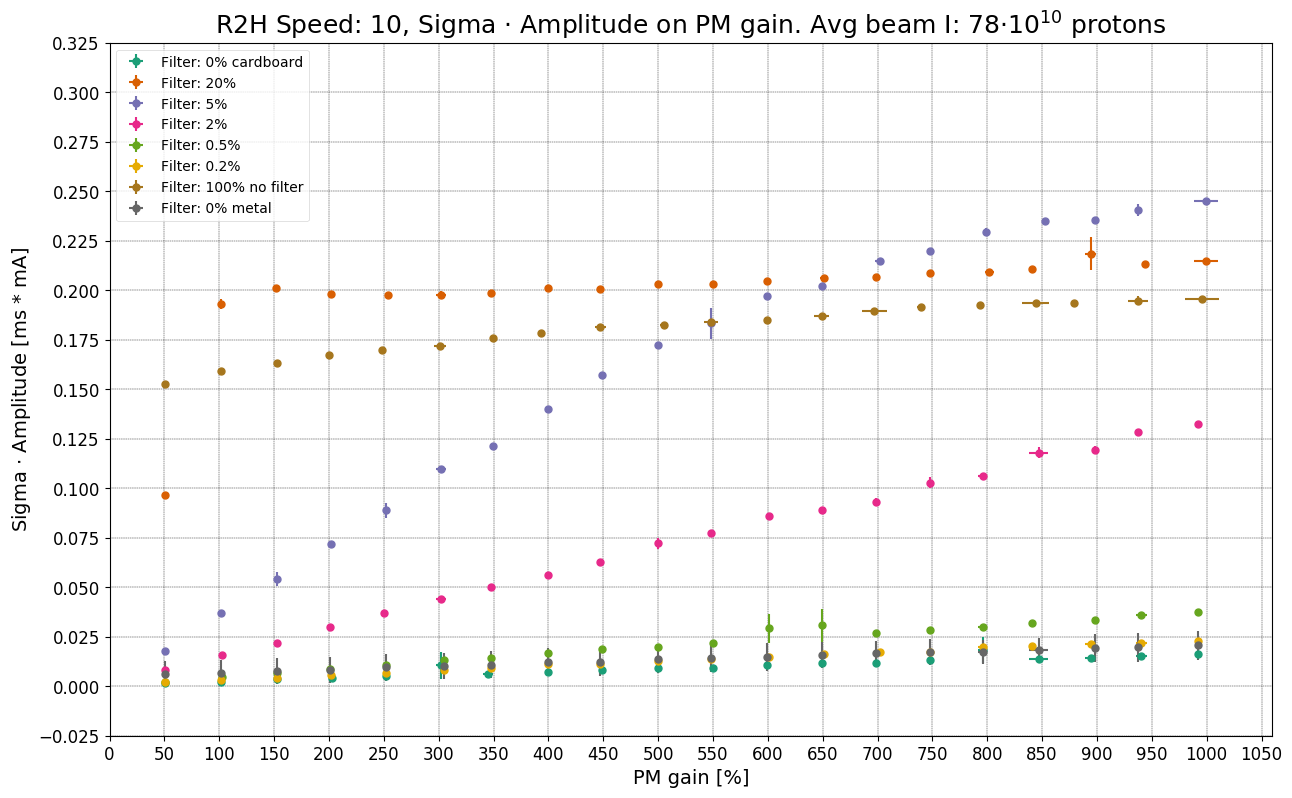
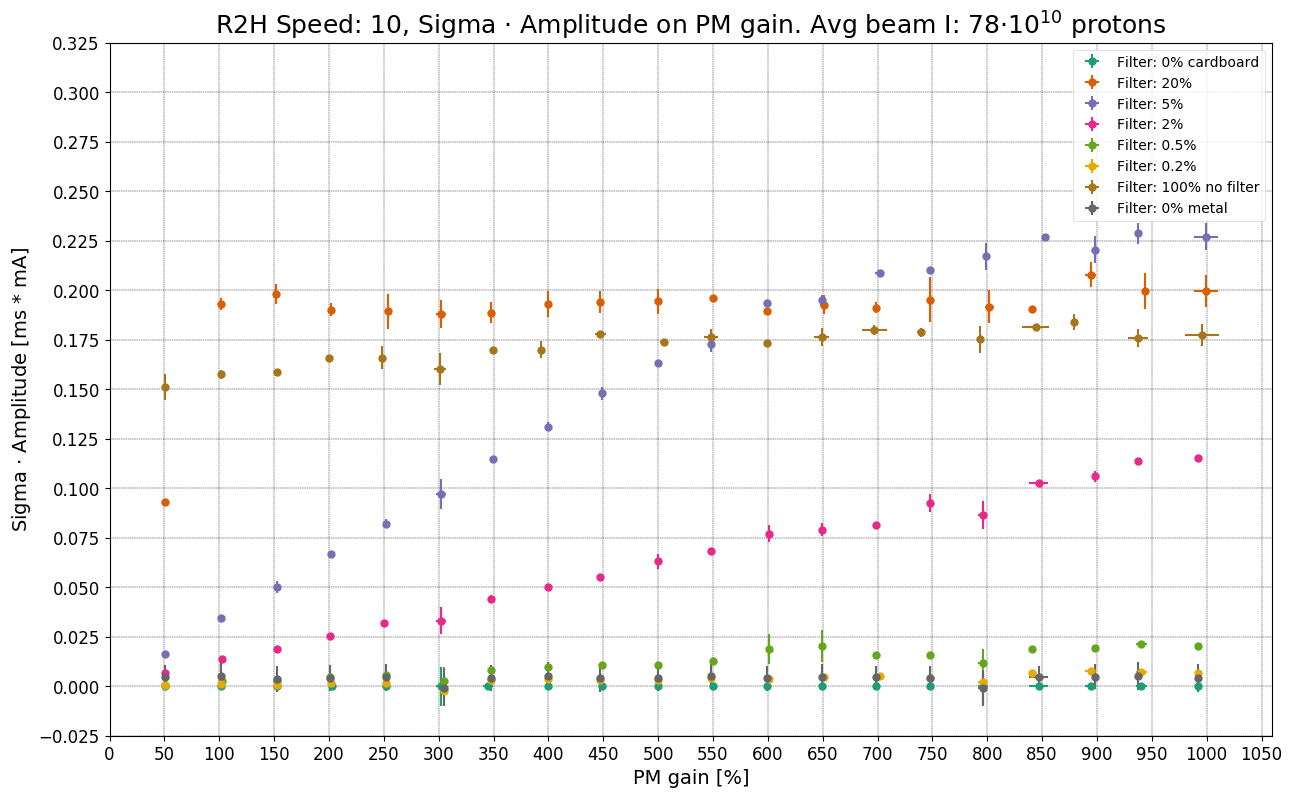
Subtracting cardborad from all data, normilising sigma*amplitude to intensity, created table with fit parameters.

diff --git a/Parameter_values.html b/Parameter_values.html
@@ -1,0 +1,26 @@
+ <html><head><style>table, th, td {border: 1px solid black;border-collapse: collapse;}th, td {padding: 5px;text-align: center;}</style></head><body><table width=700><tr><th></th><th colspan='2'>10</th><th> PM gain range </th></tr>	
+ <tr><th>0% cardboard</th><td>0.0&plusmn0.0</td><td>0.0&plusmn0.0</td><td>1025</td></tr>
+ <tr><th>20%</th><td>1.249e-05&plusmninf</td><td>-0.00674&plusmninf</td><td>125</td></tr>
+ <tr><th>5%</th><td>8.35e-06&plusmn2e-08</td><td>-5e-05&plusmn0.00031</td><td>575</td></tr>
+ <tr><th>2%</th><td>7.59e-06&plusmn7e-08</td><td>0.00107&plusmn0.00069</td><td>1025</td></tr>
+ <tr><th>0.5%</th><td>5.86e-06&plusmn1.1e-07</td><td>-0.00046&plusmn0.00015</td><td>1025</td></tr>
+ <tr><th>0.2%</th><td>4.78e-06&plusmn1.8e-07</td><td>0.00016&plusmn0.00015</td><td>1025</td></tr>
+ <tr><th>100% no filter</th><td>4e-08&plusmn1e-08</td><td>0.15835&plusmn0.00217</td><td>1025</td></tr>
+ <tr><th>0% metal</th><td>1e-08&plusmn1.3e-07</td><td>0.00421&plusmn0.00062</td><td>1025</td></tr>
+</table></body></html>
+
+
+ 
+ <html><head><style>table, th, td {border: 1px solid black;border-collapse: collapse;}th, td {padding: 5px;text-align: center;}</style></head><body><table width=700><tr><th></th><th colspan='2'>15</th><th> PM gain range </th></tr>	
+ <tr><th>0% cardboard</th><td>0.0&plusmn0.0</td><td>0.0&plusmn0.0</td><td>1025</td></tr>
+ <tr><th>20%</th><td>1.142e-05&plusmn6.1e-07</td><td>0.0019&plusmn0.00548</td><td>175</td></tr>
+ <tr><th>5%</th><td>7.83e-06&plusmn8e-08</td><td>0.00348&plusmn0.00075</td><td>775</td></tr>
+ <tr><th>2%</th><td>7.67e-06&plusmn6e-08</td><td>0.00232&plusmn0.00037</td><td>1025</td></tr>
+ <tr><th>0.5%</th><td>5.79e-06&plusmn1.4e-07</td><td>0.00019&plusmn0.00021</td><td>1025</td></tr>
+ <tr><th>0.2%</th><td>4.93e-06&plusmn3.4e-07</td><td>-0.00028&plusmn0.00021</td><td>1025</td></tr>
+ <tr><th>100% no filter</th><td>6e-08&plusmn1e-08</td><td>0.15336&plusmn0.0018</td><td>1025</td></tr>
+ <tr><th>0% metal</th><td>1.4e-07&plusmn4e-08</td><td>-0.00263&plusmn0.00014</td><td>1025</td></tr>
+</table></body></html>
+
+
+

diff --git a/analyse_wirescanner.py b/analyse_wirescanner.py
@@ -253,7 +253,7 @@ mean_bct = mean_bct_sum_sum/mean_bct_length_length
 for filt in filter:
 	for r in run:	
 		measured_data_dict[(str(r),str(filt),"sigmas_normalised")] = mean_bct * np.asarray(measured_data_dict[(str(r),str(filt),"sigmas")])/np.asarray(measured_data_dict[(str(r),str(filt),"bcts")])
-		
+		measured_data_dict[(str(r),str(filt),"sigmas_areas_normalised")] = mean_bct * np.asarray(measured_data_dict[(str(r),str(filt),"sigmas_areas")])/np.asarray(measured_data_dict[(str(r),str(filt),"bcts")])
 #------------------------------------------------------------------------------------------Old ploting------------------------------------------------------------------------------------------
 	# 	plt.figure(2)
 	# 	# # For not normalised data---------------------------------
@@ -305,18 +305,6 @@ for filt in filter:
 
 	filter_range = range(0,20)
 
-	# if speed == 10:
-	# 	if filt == 1:
-	# 		filter_range = range(0,2)
-	# 	if filt == 2:
-	# 		filter_range = range(0,11)
-
-	# if speed == 15:
-	# 	if filt == 1:
-	# 		filter_range = range(0,3)
-	# 	if filt == 2:
-	# 		filter_range = range(0,15)
-
 
 	for i in filter_range:
 		all_sigmas = []
@@ -328,7 +316,8 @@ for filt in filter:
 		for r in run:
 			all_sigmas.append(measured_data_dict[(str(r),str(filt),"sigmas_normalised")][i])
 			# all_sigmas.append(measured_data_dict[(str(r),str(filt),"sigmas")][i]) #Not normalised sigma
-			all_sigmas_areas.append(measured_data_dict[(str(r),str(filt),"sigmas_areas")][i])			
+			all_sigmas_areas.append(measured_data_dict[(str(r),str(filt),"sigmas_areas_normalised")][i])	
+			# all_sigmas_areas.append(measured_data_dict[(str(r),str(filt),"sigmas_areas")][i])	#Not normalised sigma		
 			all_pms.append(measured_data_dict[(str(r),str(filt),"pms")][i])
 			all_volts.append(measured_data_dict[(str(r),str(filt),"volts")][i])
 			all_bcts.append(measured_data_dict[(str(r),str(filt),"bcts")][i])
@@ -363,15 +352,56 @@ for filt in filter:
 	measured_data_dict[(str(filt),"bcts_final")] = bcts_final
 	measured_data_dict[(str(filt),"bcts_final_errors")] = bcts_final_errors
 
+print(" "
+	"<html><head><style>"
+		"table, th, td {"
+		    "border: 1px solid black;"
+		    "border-collapse: collapse;"
+		"}"
+		"th, td {"
+		    "padding: 5px;"
+		    "text-align: center;"
+		"}"
+		"</style></head><body>"
+		'<table width=700>'
+		  "<tr>"
+		  	"<th></th>"
+		    "<th colspan='2'>" + str(speed) + "</th>"
+		    "<th> PM gain range </th>"
+	  "</tr>	")
+
+	
+
+for filt in filter:
+
+	filter_range = 1025
+
+	if speed == 10:
+		if filt == 1:
+			filter_range = 125
+		if filt == 2:
+			filter_range = 575
+
+	if speed == 15:
+		if filt == 1:
+			filter_range = 175
+		if filt == 2:
+			filter_range = 775
+
+
 	# ---------------------------------------------------- Empiricla Fit ----------------------------------------------------
-	fit_intensity(measured_data_dict[(str(filt),"pms_final")], measured_data_dict[(str(filt),"sigmas_areas_final")], measured_data_dict[(str(filt),"sigmas_final_errors")], filter_list1[filt], speed, mean_bct)
-	chi_test = chisquare(measured_data_dict[(str(filt),"sigmas_areas_final")], empirical(np.asarray(measured_data_dict[(str(filt),"pms_final")]), *popt1, filter_list1[filt], speed, mean_bct), measured_data_dict[(str(filt),"sigmas_areas_final_errors")])
+	# ----------------------------- Substracting cardboard -----------------------------
+	fit_intensity(np.asarray(measured_data_dict[(str(filt),"pms_final")])[np.asarray(measured_data_dict[(str(filt),"pms_final")])<filter_range], (np.asarray(measured_data_dict[(str(filt),"sigmas_areas_final")])-np.asarray(measured_data_dict[(str(0),"sigmas_areas_final")]))[np.asarray(measured_data_dict[(str(filt),"pms_final")])<filter_range], np.sqrt(np.asarray(measured_data_dict[(str(filt),"sigmas_areas_final_errors")])**2 + np.asarray(measured_data_dict[(str(0),"sigmas_areas_final_errors")])**2)[np.asarray(measured_data_dict[(str(filt),"pms_final")])<filter_range], filter_list1[filt], speed, mean_bct)
+	chi_test = chisquare((np.asarray(measured_data_dict[(str(filt),"sigmas_areas_final")])-np.asarray(measured_data_dict[(str(0),"sigmas_areas_final")]))[np.asarray(measured_data_dict[(str(filt),"pms_final")])<filter_range], empirical(np.asarray(measured_data_dict[(str(filt),"pms_final")])[np.asarray(measured_data_dict[(str(filt),"pms_final")])<filter_range], *popt1, filter_list1[filt], speed, mean_bct), np.sqrt(np.asarray(measured_data_dict[(str(filt),"sigmas_areas_final_errors")])**2 + np.asarray(measured_data_dict[(str(0),"sigmas_areas_final_errors")])**2)[np.asarray(measured_data_dict[(str(filt),"pms_final")])<filter_range])
+	# fit_intensity(measured_data_dict[(str(filt),"pms_final")], measured_data_dict[(str(filt),"sigmas_areas_final")], measured_data_dict[(str(filt),"sigmas_final_errors")], filter_list1[filt], speed, mean_bct)
+	# chi_test = chisquare(measured_data_dict[(str(filt),"sigmas_areas_final")], empirical(np.asarray(measured_data_dict[(str(filt),"pms_final")]), *popt1, filter_list1[filt], speed, mean_bct), measured_data_dict[(str(filt),"sigmas_areas_final_errors")])
 	# print(chi_test)
 	# print("")
 	# print("Filter: " + filter_list[filt])
 	# print("K: " + str(popt1[0]))
 	# print("")	
 	# ---------------------------------------------------- Empiricla Fit ----------------------------------------------------
+		
 
 	plt.figure(3)
 	plt.errorbar(measured_data_dict[(str(filt),"pms_final")], measured_data_dict[(str(filt),"sigmas_final")], xerr = measured_data_dict[(str(filt),"pms_final_errors")], yerr = measured_data_dict[(str(filt),"sigmas_final_errors")], color=color_list(filt), fmt='o', markersize=5, label='Filter: ' + filter_list[filt])
@@ -406,8 +436,12 @@ for filt in filter:
 	# plt.clf()
 
 	plt.figure(5)
-	plt.errorbar(measured_data_dict[(str(filt),"pms_final")], measured_data_dict[(str(filt),"sigmas_areas_final")], xerr = measured_data_dict[(str(filt),"pms_final_errors")], yerr = measured_data_dict[(str(filt),"sigmas_areas_final_errors")], color=color_list(filt), fmt='o', markersize=5, label='Filter: ' + filter_list[filt])
-	# plt.plot(measured_data_dict[(str(filt),"pms_final")], empirical(np.asarray(measured_data_dict[(str(filt),"pms_final")]), *popt1, filter_list1[filt], speed, mean_bct), label=("k: " + str(round(popt1[0],8)) + "$\pm$" + str(round(perr1[0],8)) + "\n" + "e: " + str(round(popt1[1],5)) + "$\pm$" + str(round(perr1[1],5)) + "\n" + "$\chi^2$: " + str(round(chi_test,3))), lw=0.8, color=color_list(filt))
+	# ----------------------------- Substracting cardboard -----------------------------
+	plt.errorbar(np.asarray(measured_data_dict[(str(filt),"pms_final")])[np.asarray(measured_data_dict[(str(filt),"pms_final")])<filter_range], (np.asarray(measured_data_dict[(str(filt),"sigmas_areas_final")])-np.asarray(measured_data_dict[(str(0),"sigmas_areas_final")]))[np.asarray(measured_data_dict[(str(filt),"pms_final")])<filter_range], xerr = np.asarray(measured_data_dict[(str(filt),"pms_final_errors")])[np.asarray(measured_data_dict[(str(filt),"pms_final")])<filter_range], yerr = np.sqrt(np.asarray(measured_data_dict[(str(filt),"sigmas_areas_final_errors")])**2 + np.asarray(measured_data_dict[(str(0),"sigmas_areas_final_errors")])**2)[np.asarray(measured_data_dict[(str(filt),"pms_final")])<filter_range], color=color_list(filt), fmt='o', markersize=5, label='Filter: ' + filter_list[filt])
+	# plt.errorbar(measured_data_dict[(str(filt),"pms_final")], measured_data_dict[(str(filt),"sigmas_areas_final")], xerr = measured_data_dict[(str(filt),"pms_final_errors")], yerr = measured_data_dict[(str(filt),"sigmas_areas_final_errors")], color=color_list(filt), fmt='o', markersize=5, label='Filter: ' + filter_list[filt])
+	plt.plot(np.asarray(measured_data_dict[(str(filt),"pms_final")])[np.asarray(measured_data_dict[(str(filt),"pms_final")])<filter_range], empirical(np.asarray(measured_data_dict[(str(filt),"pms_final")])[np.asarray(measured_data_dict[(str(filt),"pms_final")])<filter_range], *popt1, filter_list1[filt], speed, mean_bct), label=("k: " + str(round(popt1[0],8)) + "$\pm$" + str(round(perr1[0],8)) + "\n" + "e: " + str(round(popt1[1],5)) + "$\pm$" + str(round(perr1[1],5)) + "\n" + "$\chi^2$: " + str(round(chi_test,3))), lw=0.8, color=color_list(filt))
+	# Without label ----------------
+	# plt.plot(np.asarray(measured_data_dict[(str(filt),"pms_final")])[np.asarray(measured_data_dict[(str(filt),"pms_final")])<filter_range], empirical(np.asarray(measured_data_dict[(str(filt),"pms_final")])[np.asarray(measured_data_dict[(str(filt),"pms_final")])<filter_range], *popt1, filter_list1[filt], speed, mean_bct), label= None, lw=0.8, color=color_list(filt))
 	# plt.fill_between(np.asarray(measured_data_dict[(str(filt),"pms_final")]), np.asarray(measured_data_dict[(str(filt),"sigmas_final")])-np.asarray(measured_data_dict[(str(filt),"sigmas_final_errors")]), np.asarray(measured_data_dict[(str(filt),"sigmas_final")])+np.asarray(measured_data_dict[(str(filt),"sigmas_final_errors")]),facecolor=color_list[filt],alpha=0.5)
 	fig = plt.gcf()
 	fig.set_size_inches(15, 9)
@@ -424,6 +458,16 @@ for filt in filter:
 	# plt.savefig("sigma_times_area_on_pm_" + ring + plane + "_filter" + str(filt) + "_speed" + str(speed) + ".png", bbox_inches='tight')
 	# plt.clf()
 
+	print(" "
+	  "<tr>"
+	  	"<th>" + filter_list[filt] + "</th>"
+	    "<td>" + str(round(popt1[0],8)) + "&plusmn" + str(round(perr1[0],8)) + "</td>"
+	    "<td>" + str(round(popt1[1],5)) + "&plusmn" + str(round(perr1[1],5)) + "</td>"
+	    "<td>" + str(filter_range) + "</td>"
+	  "</tr>")
+	  
+print("</table></body></html>")
+
 # plt.figure(3)
 # # plt.savefig("all_sigma_on_pm_" + ring + plane + "_speed" + str(speed) + ".png", bbox_inches='tight')
 # plt.savefig("all_sigma(time)_on_pm_" + ring + plane + "_speed" + str(speed) + ".png", bbox_inches='tight')  # ----------------For time dependent measurement----------------
@@ -435,3 +479,4 @@ for filt in filter:
 # # plt.savefig("all_sigma_times_area_on_pm_" + ring + plane + "_speed" + str(speed) + ".png", bbox_inches='tight')
 # plt.savefig("all_sigma(time)_times_area_on_pm_" + ring + plane + "_speed" + str(speed) + ".png", bbox_inches='tight')  # ----------------For time dependent measurement----------------
 
+# plt.show()
